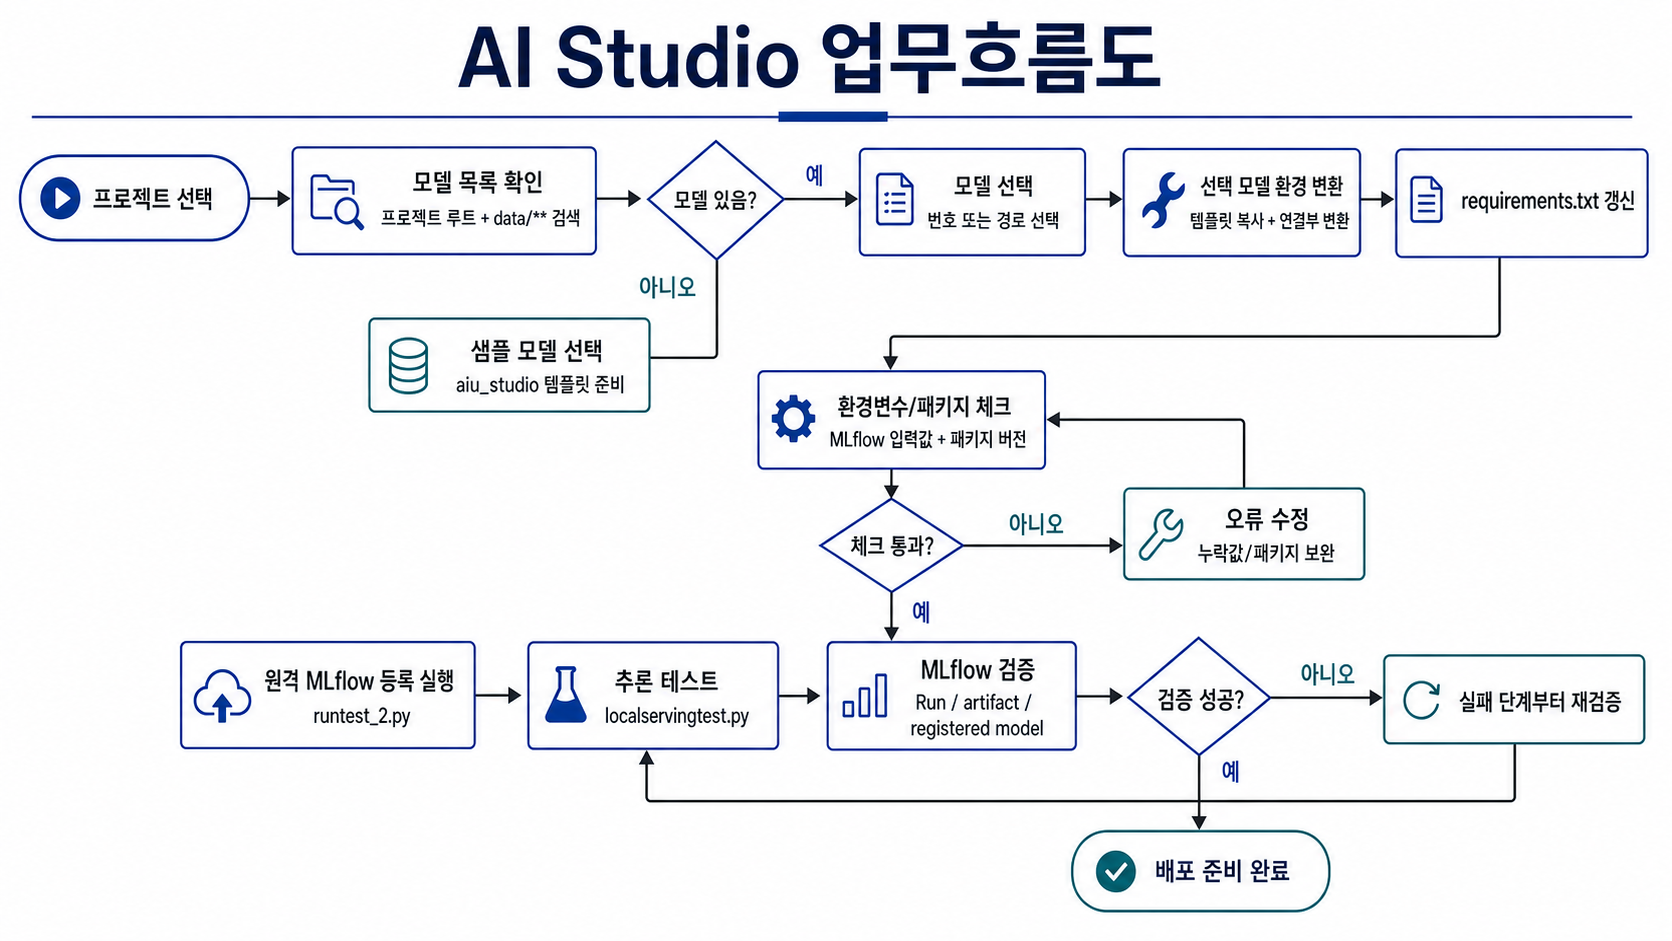
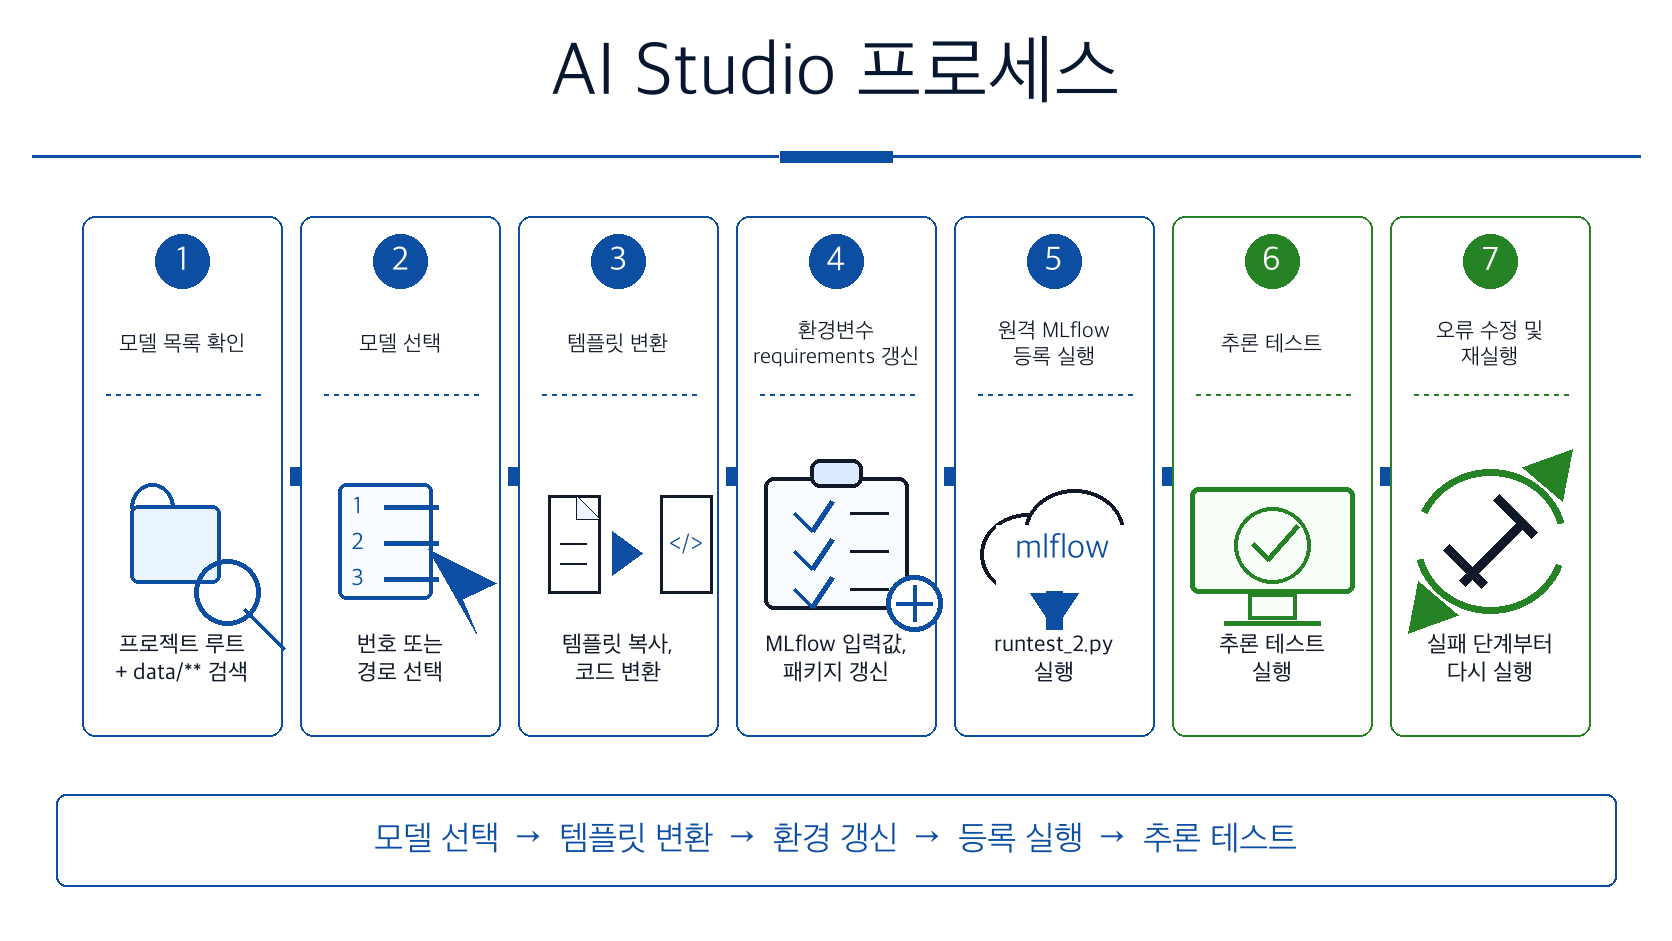
Update AI Studio process images

diff --git a/.opencode/assets/generate_ai_studio_process.py b/.opencode/assets/generate_ai_studio_process.py
@@ -1,0 +1,208 @@
+#!/usr/bin/env python3
+from __future__ import annotations
+
+from pathlib import Path
+
+from PIL import Image, ImageDraw, ImageFont
+
+
+ROOT = Path(__file__).resolve().parent
+PROCESS_IMAGE = ROOT / "ai-studio-process.png"
+WORKFLOW_IMAGE = ROOT / "ai-studio-workflow.png"
+FONT_PATH = Path("/System/Library/Fonts/AppleSDGothicNeo.ttc")
+
+
+def font(size: int, bold: bool = False) -> ImageFont.FreeTypeFont:
+    return ImageFont.truetype(str(FONT_PATH), size=size, index=8 if bold else 0)
+
+
+def centered(draw: ImageDraw.ImageDraw, xy: tuple[int, int], text: str, font_obj, fill: str) -> None:
+    draw.multiline_text(xy, text, fill=fill, font=font_obj, anchor="mm", align="center", spacing=6)
+
+
+def wrapped_lines(draw: ImageDraw.ImageDraw, text: str, font_obj, max_width: int) -> list[str]:
+    lines: list[str] = []
+    for raw_line in text.split("\n"):
+        current = ""
+        for ch in raw_line:
+            candidate = current + ch
+            if draw.textlength(candidate, font=font_obj) <= max_width:
+                current = candidate
+            else:
+                if current:
+                    lines.append(current)
+                current = ch
+        if current:
+            lines.append(current)
+    return lines
+
+
+def draw_text_block(
+    draw: ImageDraw.ImageDraw,
+    center_x: int,
+    top_y: int,
+    text: str,
+    font_obj,
+    fill: str,
+    max_width: int,
+    spacing: int = 6,
+) -> None:
+    lines = wrapped_lines(draw, text, font_obj, max_width)
+    y = top_y
+    for line in lines:
+        draw.text((center_x, y), line, fill=fill, font=font_obj, anchor="ma")
+        y += font_obj.size + spacing
+
+
+def arrow(draw: ImageDraw.ImageDraw, x: int, y: int, color: str = "#0b4ea2") -> None:
+    draw.rectangle((x, y - 9, x + 18, y + 9), fill=color)
+    draw.polygon([(x + 18, y - 20), (x + 42, y), (x + 18, y + 20)], fill=color)
+
+
+def icon_model_search(draw: ImageDraw.ImageDraw, cx: int, cy: int, color: str) -> None:
+    draw.rounded_rectangle((cx - 52, cy - 36, cx + 38, cy + 42), radius=8, outline=color, width=4, fill="#eaf4ff")
+    draw.arc((cx - 52, cy - 58, cx - 8, cy - 8), 180, 360, fill=color, width=4)
+    draw.ellipse((cx + 12, cy + 18, cx + 78, cy + 84), outline=color, width=5)
+    draw.line((cx + 62, cy + 68, cx + 102, cy + 108), fill=color, width=5)
+
+
+def icon_select(draw: ImageDraw.ImageDraw, cx: int, cy: int, color: str) -> None:
+    draw.rounded_rectangle((cx - 62, cy - 58, cx + 32, cy + 58), radius=8, outline=color, width=4, fill="#f8fbff")
+    for i, label in enumerate(["1", "2", "3"]):
+        y = cy - 34 + i * 36
+        draw.text((cx - 42, y), label, fill=color, font=font(24, True), anchor="mm")
+        draw.line((cx - 16, y, cx + 38, y), fill=color, width=5)
+    draw.polygon([(cx + 28, cy + 8), (cx + 96, cy + 42), (cx + 62, cy + 58), (cx + 76, cy + 92)], fill=color)
+
+
+def icon_template(draw: ImageDraw.ImageDraw, cx: int, cy: int, color: str) -> None:
+    draw.rectangle((cx - 70, cy - 46, cx - 18, cy + 52), outline="#111827", width=3, fill="#ffffff")
+    draw.polygon([(cx - 42, cy - 46), (cx - 18, cy - 22), (cx - 42, cy - 22)], outline="#111827", fill="#eef5ff")
+    draw.line((cx - 58, cy + 2, cx - 32, cy + 2), fill="#111827", width=2)
+    draw.line((cx - 58, cy + 22, cx - 32, cy + 22), fill="#111827", width=2)
+    draw.polygon([(cx - 6, cy - 10), (cx + 24, cy + 12), (cx - 6, cy + 34)], fill=color)
+    draw.rectangle((cx + 42, cy - 46, cx + 94, cy + 52), outline="#111827", width=3, fill="#ffffff")
+    draw.text((cx + 68, cy + 4), "</>", fill=color, font=font(24, True), anchor="mm")
+
+
+def icon_requirements(draw: ImageDraw.ImageDraw, cx: int, cy: int, color: str) -> None:
+    draw.rounded_rectangle((cx - 72, cy - 64, cx + 72, cy + 68), radius=10, outline="#111827", width=4, fill="#f8fbff")
+    draw.rounded_rectangle((cx - 26, cy - 82, cx + 26, cy - 54), radius=10, outline="#111827", width=4, fill="#dbeafe")
+    for i in range(3):
+        y = cy - 28 + i * 38
+        draw.line((cx - 42, y, cx - 24, y + 18), fill=color, width=5)
+        draw.line((cx - 24, y + 18, cx - 4, y - 12), fill=color, width=5)
+        draw.line((cx + 14, y, cx + 52, y), fill="#111827", width=3)
+    draw.ellipse((cx + 50, cy + 34, cx + 106, cy + 90), outline=color, width=5, fill="#ffffff")
+    draw.line((cx + 78, cy + 44, cx + 78, cy + 80), fill=color, width=4)
+    draw.line((cx + 60, cy + 62, cx + 96, cy + 62), fill=color, width=4)
+
+
+def icon_inference(draw: ImageDraw.ImageDraw, cx: int, cy: int, color: str) -> None:
+    draw.rounded_rectangle((cx - 82, cy - 54, cx + 82, cy + 52), radius=8, outline=color, width=5, fill="#f8fff8")
+    draw.rectangle((cx - 24, cy + 52, cx + 24, cy + 78), fill="#f8fff8", outline=color, width=4)
+    draw.line((cx - 48, cy + 82, cx + 48, cy + 82), fill=color, width=5)
+    draw.ellipse((cx - 38, cy - 34, cx + 38, cy + 42), outline=color, width=4)
+    draw.line((cx - 20, cy + 2, cx - 4, cy + 18), fill=color, width=6)
+    draw.line((cx - 4, cy + 18, cx + 26, cy - 16), fill=color, width=6)
+
+
+def icon_mlflow(draw: ImageDraw.ImageDraw, cx: int, cy: int, color: str) -> None:
+    draw.ellipse((cx - 74, cy - 28, cx + 22, cy + 54), outline="#111827", width=4, fill="#ffffff")
+    draw.ellipse((cx - 30, cy - 52, cx + 70, cy + 34), outline="#111827", width=4, fill="#ffffff")
+    draw.rectangle((cx - 58, cy - 16, cx + 88, cy + 54), fill="#ffffff")
+    draw.text((cx + 8, cy + 8), "mlflow", fill=color, font=font(34, True), anchor="mm")
+    draw.polygon([(cx, cy + 88), (cx + 24, cy + 52), (cx - 24, cy + 52)], fill=color)
+    draw.rectangle((cx - 8, cy + 50, cx + 8, cy + 88), fill=color)
+
+
+def icon_retry(draw: ImageDraw.ImageDraw, cx: int, cy: int, color: str) -> None:
+    draw.arc((cx - 76, cy - 72, cx + 76, cy + 72), 20, 165, fill=color, width=7)
+    draw.arc((cx - 76, cy - 72, cx + 76, cy + 72), 205, 345, fill=color, width=7)
+    draw.polygon([(cx + 72, cy - 40), (cx + 82, cy - 92), (cx + 32, cy - 74)], fill=color)
+    draw.polygon([(cx - 72, cy + 40), (cx - 82, cy + 92), (cx - 32, cy + 74)], fill=color)
+    draw.line((cx - 28, cy + 42, cx + 32, cy - 18), fill="#111827", width=9)
+    draw.line((cx + 6, cy - 44, cx + 44, cy - 6), fill="#111827", width=9)
+    draw.line((cx - 44, cy + 6, cx - 6, cy + 44), fill="#111827", width=9)
+
+
+def draw_card(
+    draw: ImageDraw.ImageDraw,
+    x: int,
+    y: int,
+    w: int,
+    h: int,
+    number: str,
+    title: str,
+    icon_name: str,
+    footer: str,
+    accent: str,
+) -> None:
+    draw.rounded_rectangle((x, y, x + w, y + h), radius=13, fill="#ffffff", outline=accent, width=2)
+    draw.ellipse((x + w // 2 - 27, y + 18, x + w // 2 + 27, y + 72), fill=accent)
+    centered(draw, (x + w // 2, y + 45), number, font(34, True), "#ffffff")
+    centered(draw, (x + w // 2, y + 128), title, font(22, True), "#111827")
+    dash_y = y + 178
+    for dx in range(x + 24, x + w - 24, 10):
+        draw.line((dx, dash_y, dx + 4, dash_y), fill=accent, width=2)
+    icon_cx, icon_cy = x + w // 2, y + 325
+    {
+        "search": icon_model_search,
+        "select": icon_select,
+        "template": icon_template,
+        "requirements": icon_requirements,
+        "mlflow": icon_mlflow,
+        "inference": icon_inference,
+        "retry": icon_retry,
+    }[icon_name](draw, icon_cx, icon_cy, accent)
+    draw_text_block(draw, x + w // 2, y + h - 105, footer, font(23), "#111827", w - 32, spacing=5)
+
+
+def draw_process(path: Path, bottom_text: str) -> None:
+    image = Image.new("RGB", (1672, 941), "#ffffff")
+    draw = ImageDraw.Draw(image)
+
+    blue = "#0b4ea2"
+    green = "#258326"
+
+    centered(draw, (836, 74), "AI Studio 프로세스", font(76, True), "#06172f")
+    draw.line((32, 156, 778, 156), fill=blue, width=3)
+    draw.line((886, 156, 1640, 156), fill=blue, width=3)
+    draw.rectangle((780, 151, 892, 162), fill=blue)
+
+    cards = [
+        ("1", "모델 목록 확인", "search", "프로젝트 루트\n+ data/** 검색", blue),
+        ("2", "모델 선택", "select", "번호 또는\n경로 선택", blue),
+        ("3", "템플릿 변환", "template", "템플릿 복사,\n코드 변환", blue),
+        ("4", "환경변수\nrequirements 갱신", "requirements", "MLflow 입력값,\n패키지 갱신", blue),
+        ("5", "원격 MLflow\n등록 실행", "mlflow", "runtest_2.py\n실행", blue),
+        ("6", "추론 테스트", "inference", "추론 테스트\n실행", green),
+        ("7", "오류 수정 및\n재실행", "retry", "실패 단계부터\n다시 실행", green),
+    ]
+
+    card_w, card_h = 200, 520
+    gap = 18
+    total_w = card_w * len(cards) + gap * (len(cards) - 1)
+    x = (1672 - total_w) // 2
+    y = 216
+    for idx, card in enumerate(cards):
+        draw_card(draw, x, y, card_w, card_h, *card)
+        if idx < len(cards) - 1:
+            arrow(draw, x + card_w + 8, y + card_h // 2)
+        x += card_w + gap
+
+    draw.rounded_rectangle((56, 794, 1616, 886), radius=10, fill="#ffffff", outline=blue, width=2)
+    centered(draw, (836, 840), bottom_text, font(34, True), blue)
+
+    image.save(path)
+
+
+def main() -> None:
+    draw_process(PROCESS_IMAGE, "모델 검색  →  선택  →  변환  →  갱신  →  등록  →  테스트  →  재실행")
+    draw_process(WORKFLOW_IMAGE, "모델 선택  →  템플릿 변환  →  환경 갱신  →  등록 실행  →  추론 테스트")
+    print(PROCESS_IMAGE)
+    print(WORKFLOW_IMAGE)
+
+
+if __name__ == "__main__":
+    main()